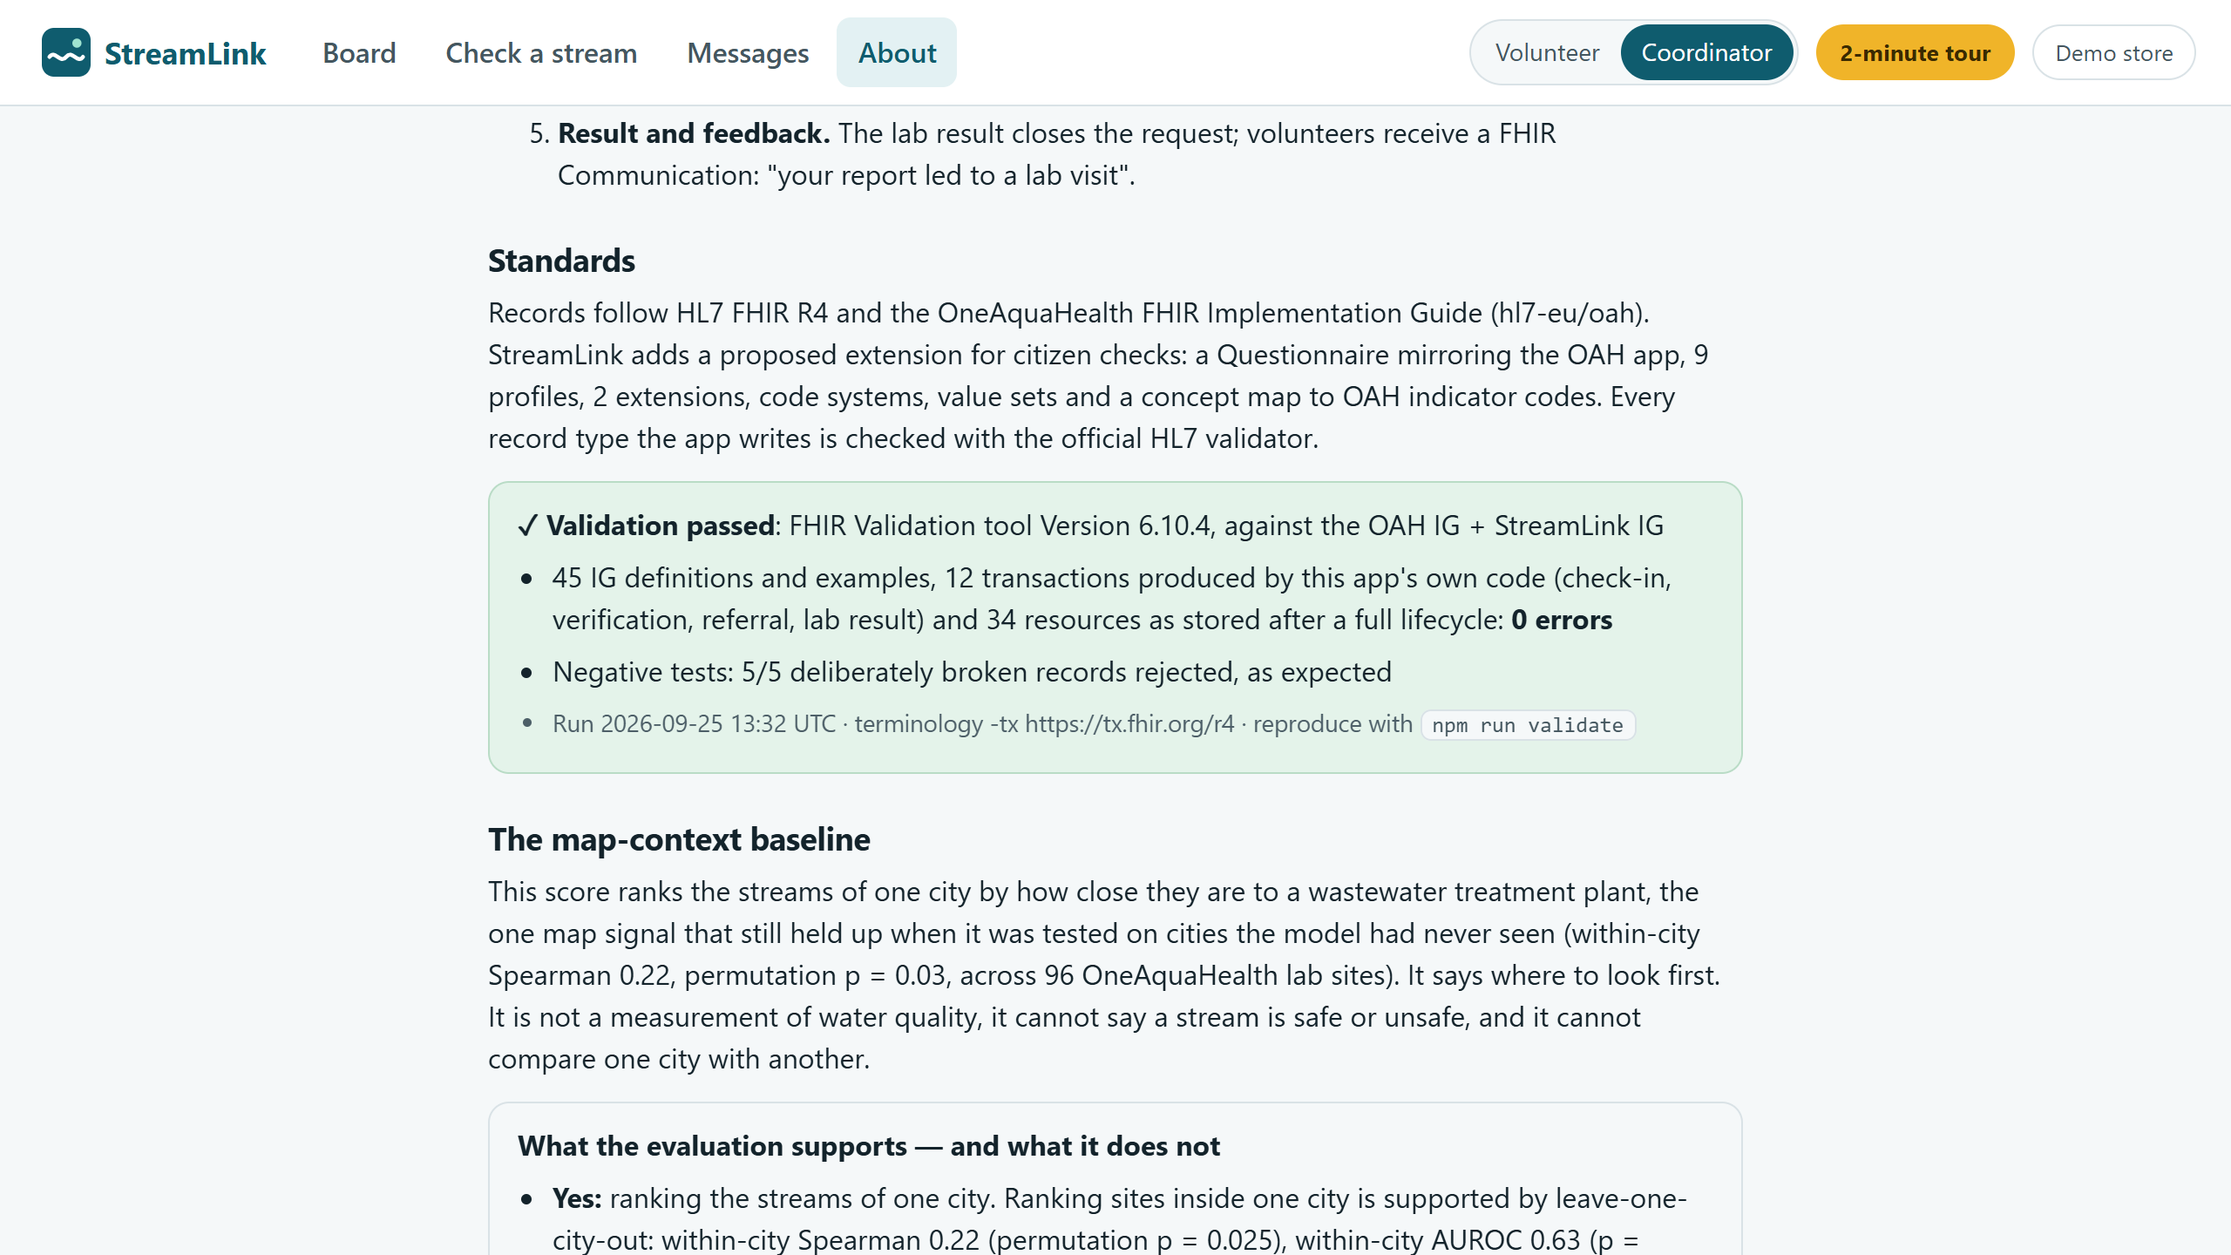
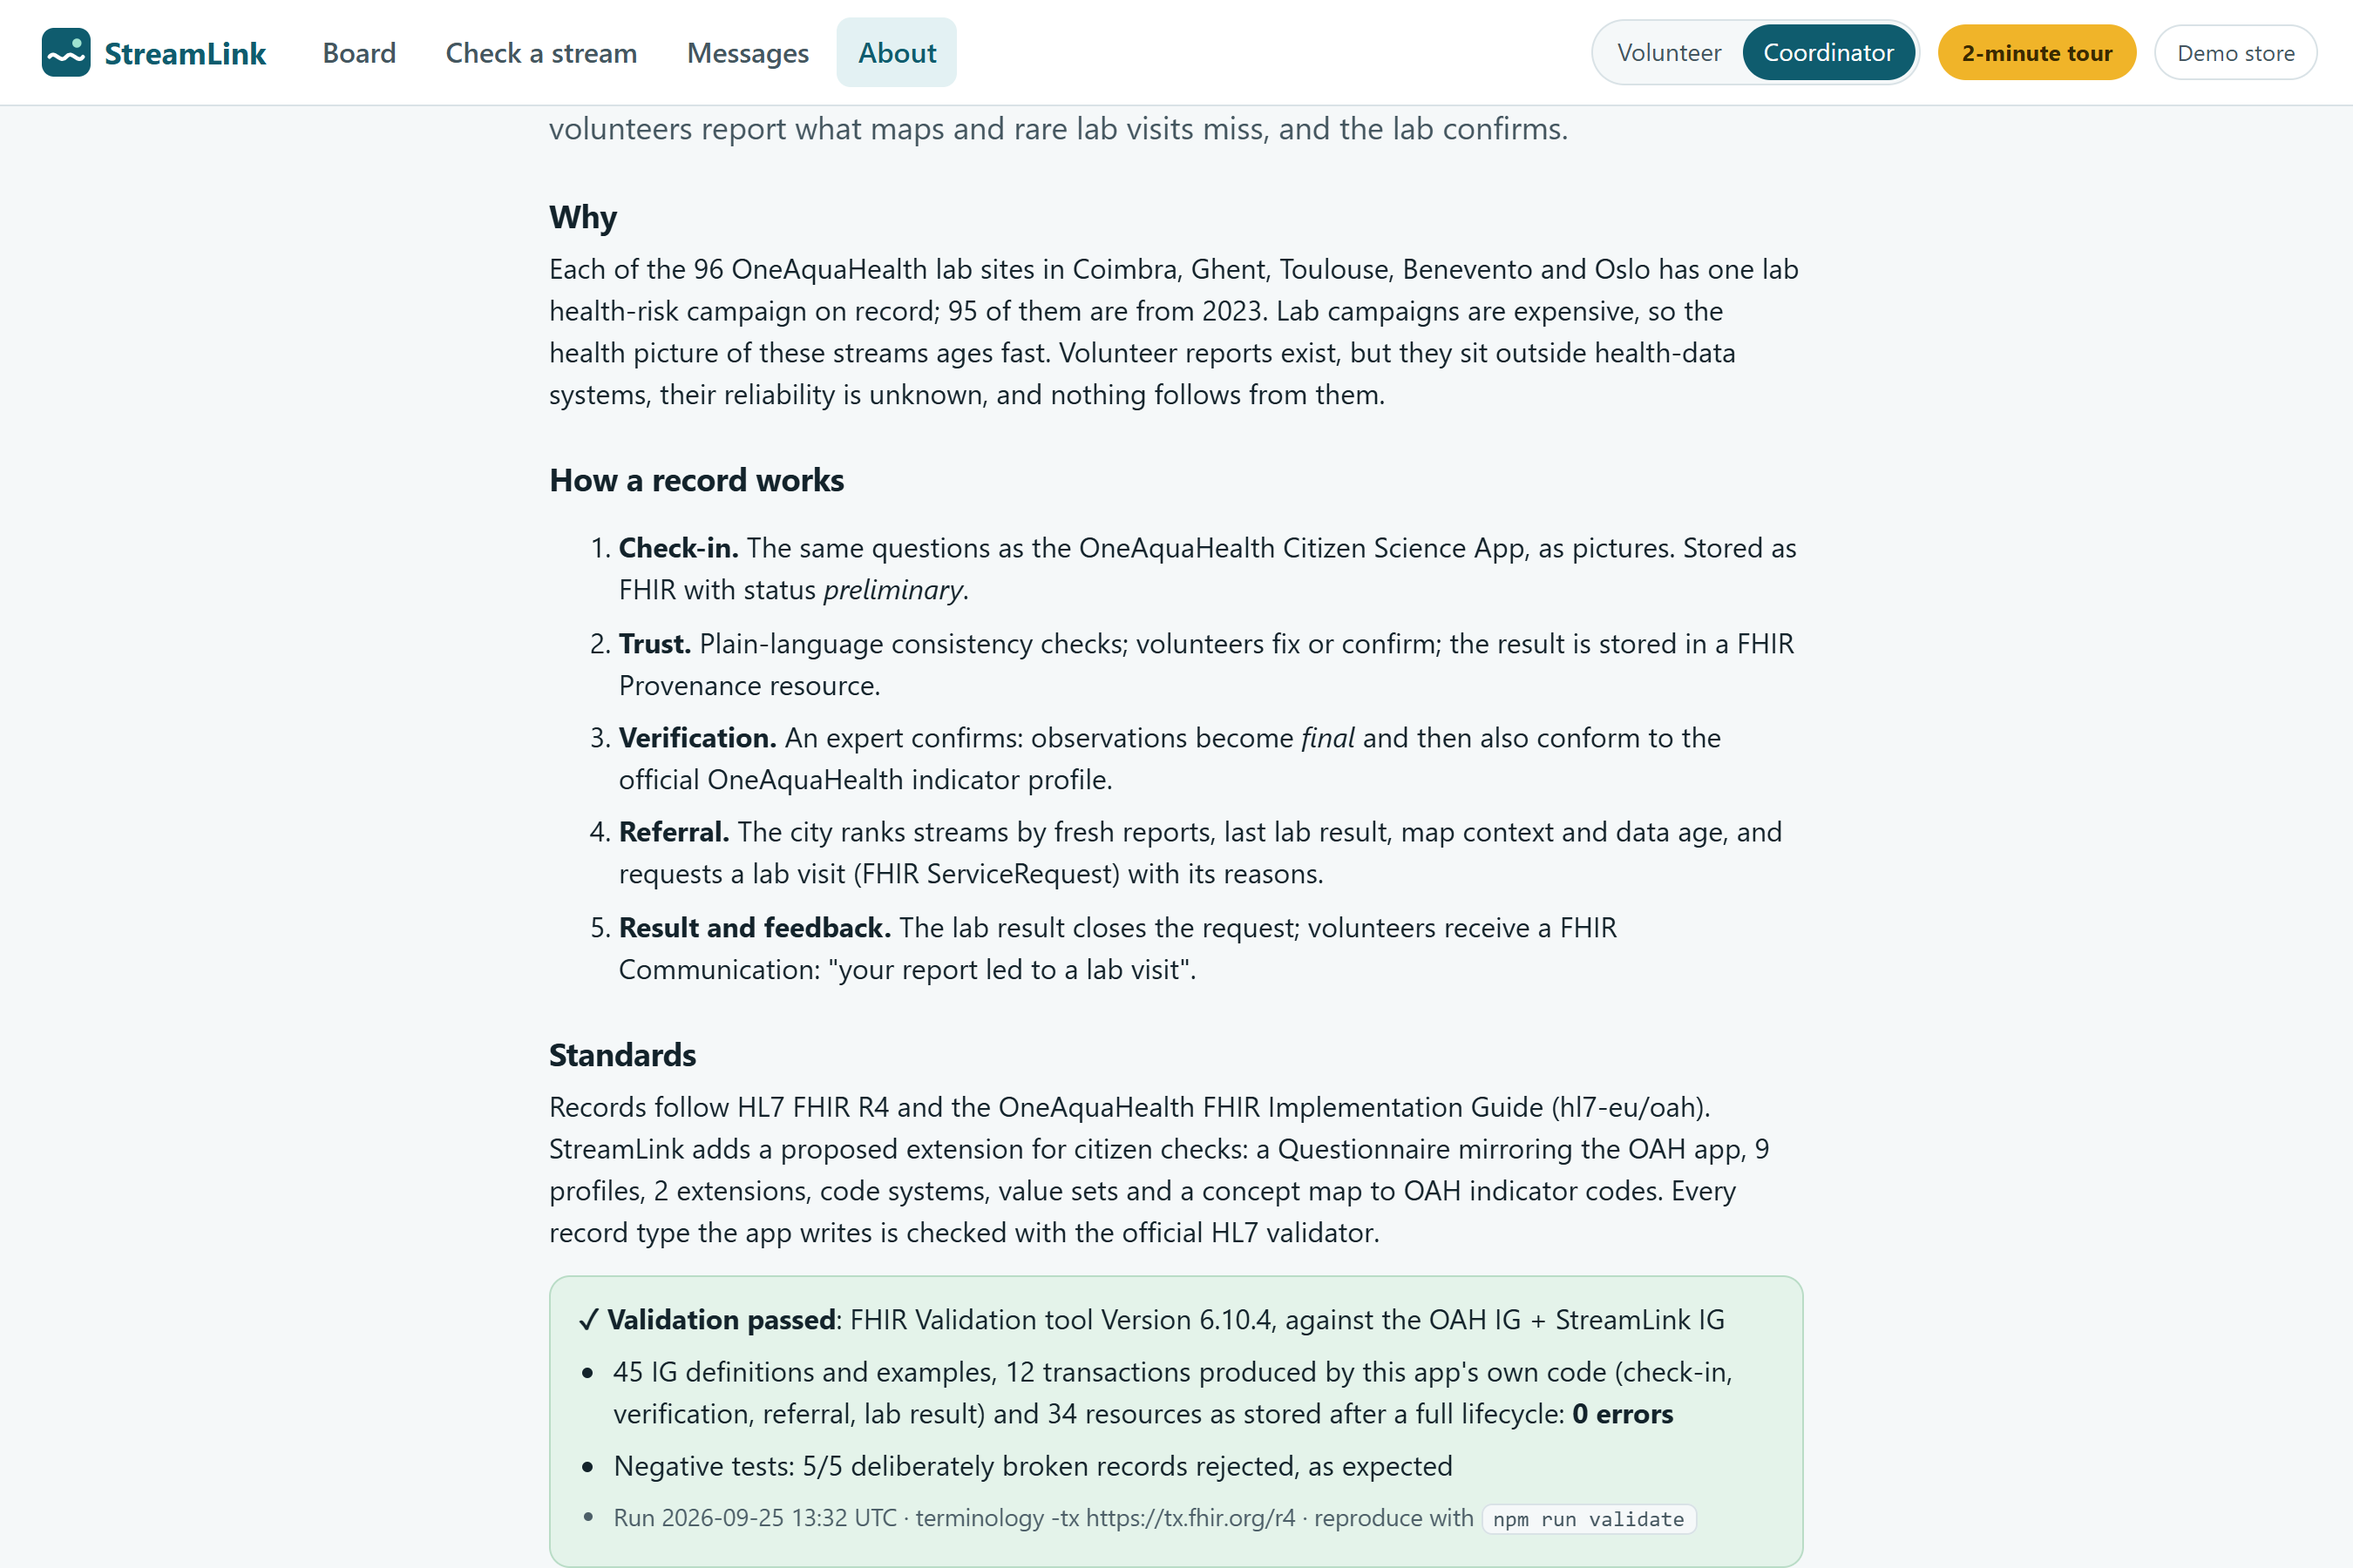
Rebuild every submission image at 3:2
Devpost's gallery asks for 3:2, so the 16:9 versions would have been
letterboxed. Screenshots recaptured at a 1350x900 viewport, thumbnails
re-rendered on a 1200x800 canvas, and the portrait phone screenshot is
now composed onto a 3:2 card instead of standing alone.

Changed region(s): [[0.0, 0.0, 1.0, 0.625], [0.2188, 0.6562, 0.75, 1.0]]

diff --git a/docs/submission-images/README.md b/docs/submission-images/README.md
@@ -1,32 +1,38 @@
 # Submission images
 
-Captured from the live demo on 2026-09-25 at 2× (phone at 3×). Devpost shows the first image as the
-thumbnail, so upload them in this order. Suggested captions:
+All 3:2, which is the ratio Devpost asks for, and all well under its 5 MB limit. Captured from the
+live demo on 2026-09-25. The narrative log is `../hackathon/EVIDENCE.md`; the paste-ready captions
+are in `../hackathon/PASTE.md`.
 
-| File | Caption to paste |
-|---|---|
-| `01-board.png` | The city board: 1,186 days since the lab last visited a typical Coimbra stream. "Act on this next" names one stream and says why. |
-| `02-record.png` | One stream's shared record — stream, animals and people — with the four ranking factors and the reason for each. |
-| `03-validation.png` | Every record type the app writes, checked by the official HL7 validator against the OneAquaHealth IG: 0 errors, and 5/5 deliberately broken records rejected. |
-| `04-check-phone.png` | The volunteer check on a phone: the OneAquaHealth citizen app's own questions, as pictures, offline if needed. |
+## Upload order
 
-Recapture with `node out/checks/shots.mjs` (the script is in `out/`, which is not committed; it drives
-the deployed site with playwright-core).
+Devpost uses the first image as the card, so the thumbnail goes first.
+
+1. A thumbnail (see below)
+2. `01-board.png` 2700x1800
+3. `02-record.png` 2700x1800
+4. `03-validation.png` 2700x1800
+5. `04-check-phone-card.png` 2400x1600
+
+`04-check-phone.png` is the raw portrait screenshot. It is the source for the card above and is not
+meant to be uploaded on its own, since a tall image sits badly in a 3:2 gallery.
 
 ## Thumbnail
 
-Five to choose from, all 2400x1350 (Devpost wants 16:9, at least 1200x675). Upload the one you pick
-first, so it becomes the card image; the four screenshots follow it.
+Five to choose from, all 2400x1600. Logo only, set in Outfit, with "Stream" solid and "Link" light:
 
-Logo only, set in Outfit, with "Stream" solid and "Link" light:
-
-- `thumbnail-l3.png` mark-free wordmark on deep teal, with the stream motif along the bottom. Biggest, reads at any size.
+- `thumbnail-l3.png` wordmark alone on deep teal, stream motif along the bottom. Biggest, reads at any size.
 - `thumbnail-l1.png` app icon above the wordmark, tagline under a short rule. The most conventional lockup.
-- `thumbnail-l2.png` the same lockup on a light background, wordmark and icon side by side over a wave.
+- `thumbnail-l2.png` the same on a light background, icon and wordmark side by side over a wave.
 
 With the product in shot:
 
 - `thumbnail-b.png` headline left, the board in a browser frame right.
 - `thumbnail-a.png` headline and the three numbers, no screenshot.
 
-Rebuild any with `node out/thumb/render.mjs l1 l2 l3 a b` (sources in `out/thumb/`, not committed).
+## Rebuilding
+
+- Screenshots: `node out/checks/shots.mjs` (drives the deployed site at a 1350x900 viewport, 2x).
+- Thumbnails and the phone card: `node out/thumb/render.mjs l1 l2 l3 a b phone` (sources in `out/thumb/`).
+
+Neither script is committed, because `out/` is not.

diff --git a/docs/hackathon/PASTE.md b/docs/hackathon/PASTE.md
@@ -151,7 +151,7 @@ Check the preview loads on the page after you paste it. It should show the title
 ## Box: Image gallery
 
 Upload from `docs/submission-images/` in this order. Devpost uses the first image as the card,
-so the thumbnail goes first.
+so the thumbnail goes first. Every file is already 3:2 and well under the 5 MB limit.
 
 1. Your chosen thumbnail (`thumbnail-l3.png`, or whichever of the five you prefer). No caption needed.
 
@@ -170,7 +170,7 @@ One stream's shared record, covering the stream itself, animals and disease vect
 Every record type the app writes, checked by the official HL7 validator against the OneAquaHealth IG. Zero errors, and 5 out of 5 deliberately broken records rejected.
 ```
 
-5. `04-check-phone.png`
+5. `04-check-phone-card.png`
 ```
 The volunteer check on a phone. The OneAquaHealth citizen app's own questions, asked as pictures, and it works offline.
 ```
